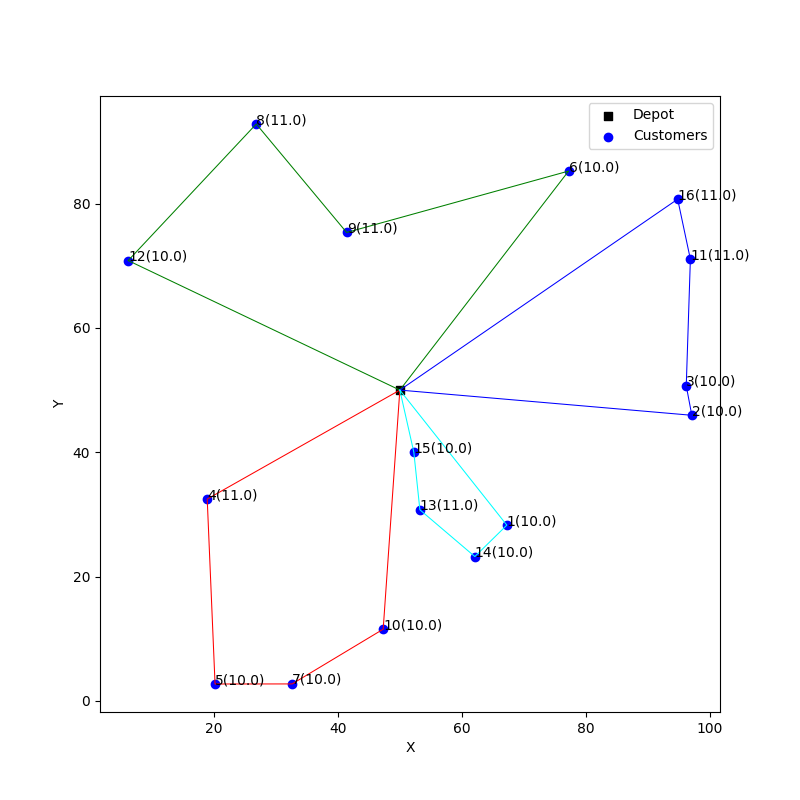
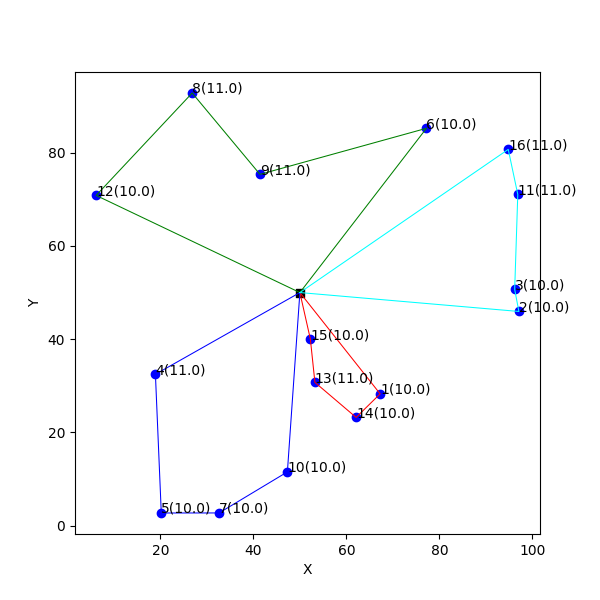
README.md file modified

diff --git a/README.md b/README.md
@@ -71,52 +71,58 @@ The replacement strategy is constructed such that a selection of tournament offs
 • When the car's capacity is below the average optimized for each car, the car is used to its maximum capacity and the rest are filled to the optimal value.
 
 ## Example solutions
+
 **VRP example**
-This section presents an example of a VRP in which the goal is to minimize the longest single route.
+This section presents an example of a VRP in which the goal is to minimize the longest single route. Below, you'll find a GIF demonstrating the genetic algorithm solving the VRP problem.
+
+<p align="center">
+<img src=".github/VRP.gif" width="600" height="600">
+</p>
+
 
 Imagine a situation in which a company needs to effectively visit its customers scattered throughout a city arranged in uniform rectangular blocks. Below is a figure of the city grid, with the company's depot in black and customer locations in blue. Each customer is marked with a number next to which the load is indicated in brackets.
 
 <p align="center">
-<img src=".github/start.png">
+<img src=".github/start.png" width="600" height="600">
 </p>
 
-Below is a figure illustrating the initialization of routes. In the first generation, routes are chosen randomly as part of the genetic algorithm's initialization process. The initial length of all routes is 848.86.
+Below is a figure illustrating the initialization of routes. In the first generation, routes are chosen randomly as part of the genetic algorithm's initialization process. The initial length of all routes is 824.99.
 
 <p align="center">
-<img src=".github/initial_routes.png">
+<img src=".github/initial_routes.png" width="600" height="600">
 </p>
 
 Below, you'll find a figure of the best routes identified by the genetic algorithm, total length of all routes is optimized to 212.63 units.
 
 <p align="center">
-<img src=".github/best_routes.png">
+<img src=".github/best_routes.png" width="600" height="600">
 </p>
 
 Below is a figure of the road length per generation. The best solution was found in 54th generation.
 
 <p align="center">
-<img src=".github/road_length.png">
+<img src=".github/road_length.png" width="600" height="600">
 </p>
 
 
-The console output serves as a confirmation of the solution's validity, offering key insights and routes details. It also displays the genetic algorithm's progress from the first to the 200th generation.
+The console output serves as a confirmation of the solution's validity, offering key insights and routes details. It also displays the genetic algorithm's progress from the first to the 100th generation.
 ```
-Generation 1, Best Fitness: 0.002242425632031495, Route Length: 848.86
+Generation 1, Best Fitness: 0.002242425632031495, Route Length: 824.99
                                 .
                                 .
                                 .
-Generation 200, Best Fitness: 0.004702955307627635, Route Length: 212.63
-Elapsed time: 2.093742847442627s
-Best Fitness: 0.004702955307627635
-Route for red: [10, 7, 5, 4]
-Route for green: [6, 9, 8, 12]
-Route for blue: [16, 11, 3, 2]
-Route for cyan: [1, 14, 13, 15]
-Initial length traveled: 848.86
+Generation 100, Best Fitness: 0.004702955307627635, Route Length: 212.63
+Elapsed time: 1.093742847442627s
+Best Fitness: 0.004702955307627634
+Route for red: [1, 14, 13, 15]
+Route for green: [12, 8, 9, 6]
+Route for blue: [10, 7, 5, 4]
+Route for cyan: [16, 11, 3, 2]
+Initial length traveled: 824.99
 Total length traveled: 212.63
 Sum of all demands: 166.0
-Initial Routes: Sum of Demands for red: 40.0(50), Sum of Demands for green: 42.0(50), Sum of Demands for blue: 41.0(50), Sum of Demands for cyan: 43.0(50)
-Best Routes: Sum of Demands for red: 41.0(50), Sum of Demands for green: 42.0(50), Sum of Demands for blue: 42.0(50), Sum of Demands for cyan: 41.0(50)
+Initial Routes: Sum of Demands for red: 41.0(50), Sum of Demands for green: 41.0(50), Sum of Demands for blue: 42.0(50), Sum of Demands for cyan: 42.0(50)
+Best Routes: Sum of Demands for red: 41.0(50), Sum of Demands for green: 42.0(50), Sum of Demands for blue: 41.0(50), Sum of Demands for cyan: 42.0(50)
 ```
 
 **Load optimization vs. maximum car load**
@@ -125,13 +131,13 @@ In this section, two different vehicle load distribution strategies will be pres
 The maximum car load approach focuses on filling each vehicle to its maximum capacity, ensuring efficient use of resources within set constraints. The routes can be found in the figure below.
 
 <p align="center" id="maximum">
-<img src=".github/without_optimize.png">
+<img src=".github/without_optimize.png" width="600" height="600">
 </p>
 
 As an option, the system can evenly distribute cargo between vehicles, ensuring that each carries a similar amount of cargo. Below is a graphical representation illustrating the optimized distribution of routes.
 
 <p align="center" id="optimize">
-<img src=".github/with_optimize.png">
+<img src=".github/with_optimize.png" width="600" height="600">
 </p>
 
 ## License
